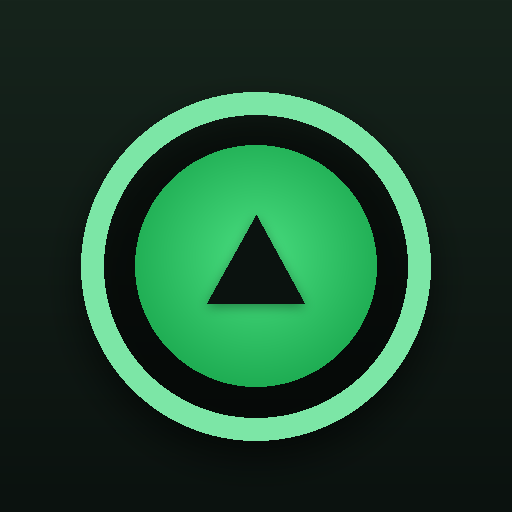
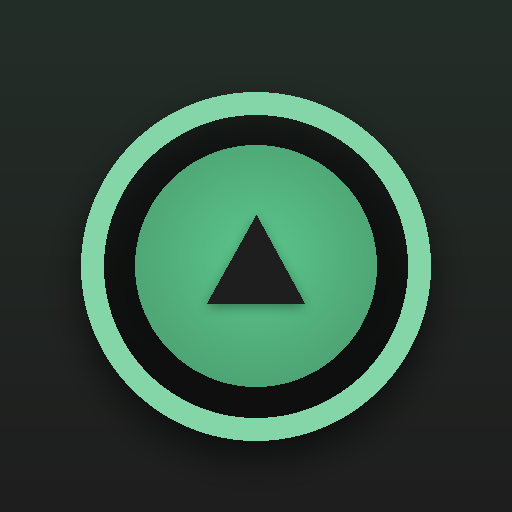
Add files via upload

Changed region(s): [[0.25, 0.2812, 0.75, 0.7812]]

diff --git a/style.css b/style.css
@@ -1,17 +1,16 @@
 @import url('https://fonts.googleapis.com/css2?family=IBM+Plex+Mono:wght@500;600;700&family=Space+Grotesk:wght@500;600;700&display=swap');
 
 :root{
-  --bg: #0B120F;
-  --bg-panel: #142019;
-  --bg-panel-2: #1B2B22;
-  --line: #2C4536;
-  --accent: #22C55E;
-  --accent-dim: #17994A;
-  --accent-2: #7CE6A6;
-  --text: #EAF5EE;
-  --text-dim: #8FB39D;
-  --ok: #22C55E;
-  --warn: #F2C94C;
+  --bg: #1E1E1E;
+  --bg-panel: #232A26;
+  --bg-panel-2: #2A362F;
+  --line: #3C7153;
+  --accent: #5BC78C;
+  --accent-dim: #4C9D70;
+  --accent-2: #84D6A8;
+  --text: #D6F1E2;
+  --text-dim: #83928A;
+  --ok: #5BC78C;
   --radius: 14px;
 }
 
@@ -49,7 +48,7 @@ body{
 .titleblock{
   border: 1px solid var(--line);
   border-radius: 16px;
-  background: linear-gradient(180deg, #16241C, #111C16);
+  background: linear-gradient(180deg, #242E28, #1E1E1E);
   padding: 14px 16px;
   margin-top: calc(10px + env(safe-area-inset-top));
   box-shadow: 0 6px 16px rgba(0,0,0,0.4);
@@ -59,7 +58,7 @@ body{
   padding: 6px 0;
 }
 .titleblock-row + .titleblock-row{
-  border-top: 1px solid #24382C;
+  border-top: 1px solid #33473E;
 }
 .titleblock-row--split{ justify-content: space-between; }
 .titleblock-row--split > div{ display:flex; align-items:baseline; gap:8px; }
@@ -79,7 +78,7 @@ body{
 .stavba-pill{
   flex:1;
   display:flex; align-items:center;
-  background: linear-gradient(180deg, #1E3226, #182920);
+  background: linear-gradient(180deg, #2F4C3B, #27372E);
   border: 1px solid var(--line);
   border-radius: 20px;
   padding: 4px 6px 4px 14px;
@@ -109,7 +108,7 @@ body{
 .new-stavba-btn{
   margin: 10px 0 14px;
   width: 100%;
-  background: linear-gradient(180deg, #182920, #131F19);
+  background: linear-gradient(180deg, #2A362F, #202623);
   border: 1px solid var(--line);
   color: var(--text-dim);
   font-family: 'IBM Plex Mono', monospace;
@@ -155,14 +154,14 @@ body{
   overflow: hidden;
   border: 1px solid var(--line);
   position: relative;
-  background: linear-gradient(160deg, #26402F, #182920);
+  background: linear-gradient(160deg, #335843, #2A3F33);
   box-shadow: 0 3px 8px rgba(0,0,0,0.3);
 }
 .thumb img{ width:100%; height:100%; object-fit: cover; display:block; }
 .thumb-badge{
   position:absolute; top:5px; left:5px;
   background: var(--accent);
-  color: #0B120F;
+  color: #1E1E1E;
   font-family: 'IBM Plex Mono', monospace;
   font-size: 9px;
   font-weight: 700;
@@ -180,7 +179,7 @@ body{
 
 .ov-list{ display:flex; flex-direction:column; gap:10px; margin-bottom: 18px; }
 .ov-item{
-  background: linear-gradient(180deg, #16241C, #111C16);
+  background: linear-gradient(180deg, #242E28, #1E1E1E);
   border: 1px solid var(--line);
   border-radius: var(--radius);
   padding: 12px 14px;
@@ -190,7 +189,7 @@ body{
 .ov-item:active{ background: var(--bg-panel-2); }
 .ov-name-pill{
   display:inline-flex; align-items:center; gap:7px;
-  background: linear-gradient(180deg, #1E3226, #182920);
+  background: linear-gradient(180deg, #2F4C3B, #27372E);
   border: 1px solid var(--line);
   border-radius: 20px;
   padding: 6px 12px;
@@ -209,7 +208,7 @@ body{
 .upload-btn{
   width:100%;
   background: var(--accent);
-  color: #0B120F;
+  color: #1E1E1E;
   font-weight: 700;
   font-size: 16px;
   border: none;
@@ -233,7 +232,7 @@ body{
   max-width: 480px;
   margin: 0 auto;
   display:flex;
-  background: linear-gradient(180deg, #142019, #111B15);
+  background: linear-gradient(180deg, #2A362F, #202623);
   border-top: 1px solid var(--line);
   box-shadow: 0 -4px 14px rgba(0,0,0,0.35);
   padding: 8px 10px calc(10px + env(safe-area-inset-bottom));
@@ -303,7 +302,7 @@ body{
   height:44px;
   padding: 0 16px;
   border-radius: 12px;
-  background: linear-gradient(180deg, #1A2C22, #131F19);
+  background: linear-gradient(180deg, #2E4A3A, #202623);
   border: 1px solid var(--line);
   color: var(--accent-2);
   display:flex; align-items:center; gap:8px;
@@ -318,10 +317,10 @@ body{
 .gallery-btn.active{
   background: var(--accent);
   border-color: var(--accent);
-  color: #0B120F;
+  color: #1E1E1E;
   box-shadow: 0 3px 10px rgba(34,197,94,0.35);
 }
-.gallery-btn.active i{ color: #0B120F; }
+.gallery-btn.active i{ color: #1E1E1E; }
 .shutter{ justify-self:center; }
 
 /* ---------- Galerie ---------- */
@@ -336,7 +335,7 @@ body{
 }
 .gal-thumb{
   aspect-ratio:1; border-radius: 9px; overflow:hidden;
-  border: 1px solid var(--line); background: linear-gradient(160deg, #26402F, #182920);
+  border: 1px solid var(--line); background: linear-gradient(160deg, #335843, #2A3F33);
   box-shadow: 0 3px 8px rgba(0,0,0,0.3);
   position: relative;
 }
@@ -360,7 +359,7 @@ body{
   display:flex; gap:14px; margin-top:16px;
 }
 .lightbox-bar button{
-  background: linear-gradient(180deg, #1A2C22, #131F19); border: 1px solid var(--line);
+  background: linear-gradient(180deg, #2E4A3A, #202623); border: 1px solid var(--line);
   color: var(--text); border-radius: 10px; padding: 10px 16px;
   font-size: 13px; display:flex; align-items:center; gap:6px;
   box-shadow: 0 3px 8px rgba(0,0,0,0.3);

diff --git a/app.js b/app.js
@@ -260,6 +260,42 @@ $("#btnNewStavbaOverview").addEventListener("click", async () => {
   toast(`Objekt "${clean}" přidán`);
 });
 
+$("#btnImportTxt").addEventListener("click", () => $("#importInput").click());
+
+$("#importInput").addEventListener("change", async (e) => {
+  const file = e.target.files[0];
+  e.target.value = "";
+  if (!file) return;
+
+  const text = await file.text();
+  const lines = text.split(/\r?\n/).map(l => l.trim()).filter(Boolean);
+  if (lines.length === 0) { toast("Soubor je prázdný."); return; }
+
+  const existing = await getAllStavby();
+  const existingNames = new Set(existing.map(s => s.name));
+  let added = 0;
+
+  for (const line of lines) {
+    if (existingNames.has(line)) continue;
+    await addStavba(line);
+    existingNames.add(line);
+    added++;
+  }
+
+  if (!currentStavba && added > 0) {
+    const firstNew = lines.find(l => existingNames.has(l));
+    currentStavba = firstNew;
+  }
+
+  await renderMain();
+  await renderOverview();
+
+  const skipped = lines.length - added;
+  toast(skipped > 0
+    ? `Přidáno ${added} objektů (${skipped} už existovalo)`
+    : `Přidáno ${added} objektů`);
+});
+
 $("#stavbaSelect").addEventListener("change", async (e) => {
   currentStavba = e.target.value;
   localStorage.setItem("currentStavba", currentStavba);

diff --git a/index.html b/index.html
@@ -4,7 +4,7 @@
 <meta charset="UTF-8">
 <meta name="viewport" content="width=device-width, initial-scale=1, viewport-fit=cover, maximum-scale=1">
 <title>Stavby Foto</title>
-<meta name="theme-color" content="#0B120F">
+<meta name="theme-color" content="#1E1E1E">
 <link rel="manifest" href="manifest.json">
 <link rel="apple-touch-icon" href="icon-192.png">
 <meta name="apple-mobile-web-app-capable" content="yes">
@@ -82,6 +82,8 @@
     <p class="backup-note">Lokální záloha: <b id="backupCount">0 fotek</b> uloženo přímo v telefonu — funguje i bez signálu.</p>
 
     <button class="new-stavba-btn" id="btnNewStavbaOverview">+ Přidat objekt</button>
+    <button class="new-stavba-btn" id="btnImportTxt">+ Nahrát seznam objektů</button>
+    <input type="file" id="importInput" accept=".txt,text/plain" hidden>
 
     <div class="ov-list" id="ovList"></div>
 